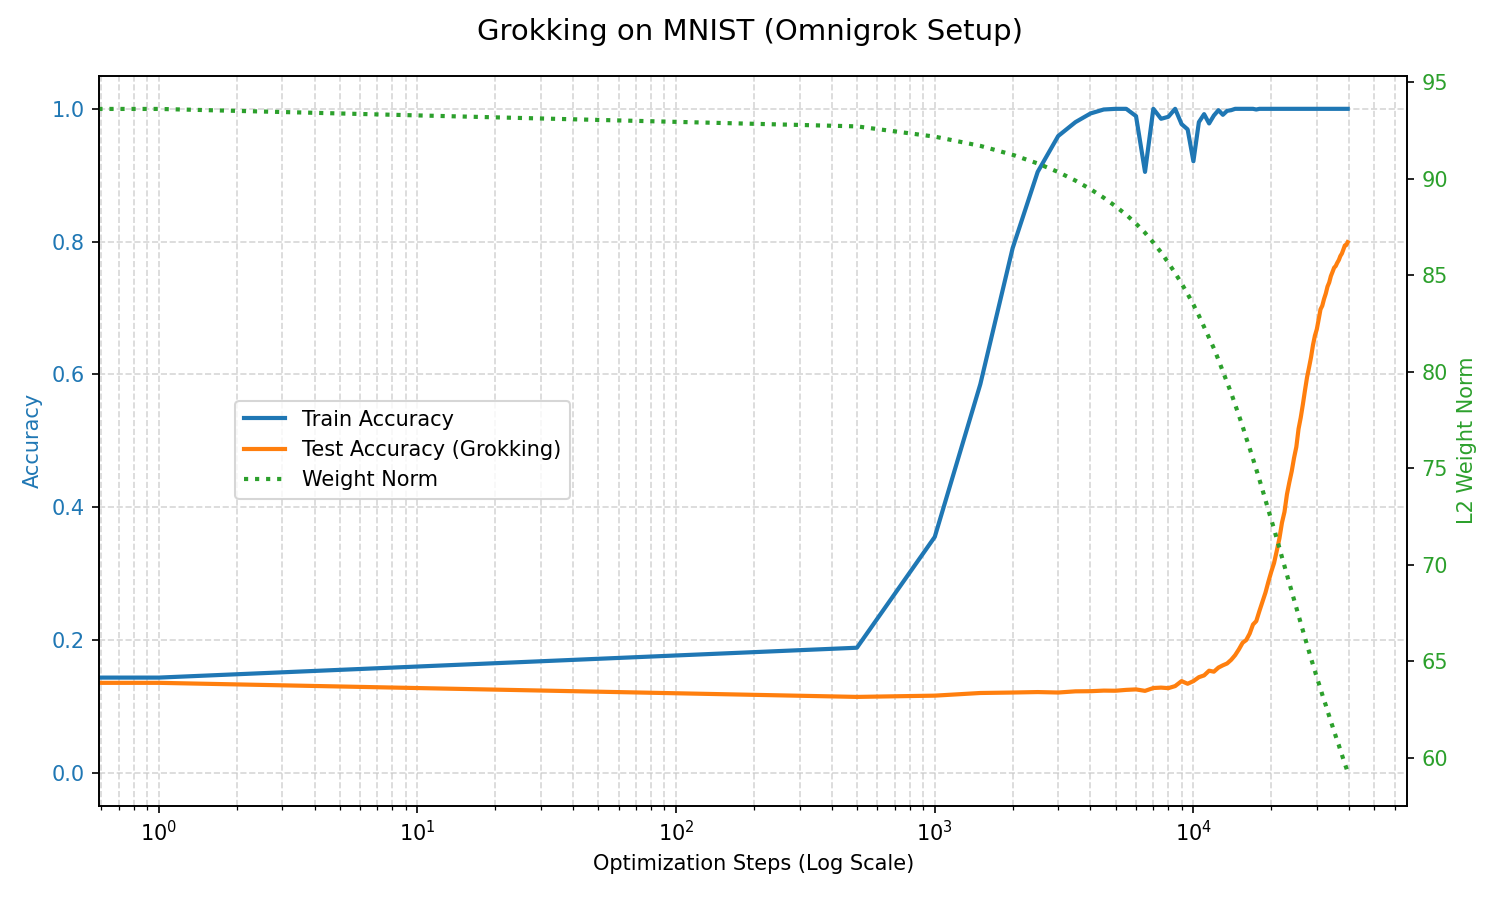
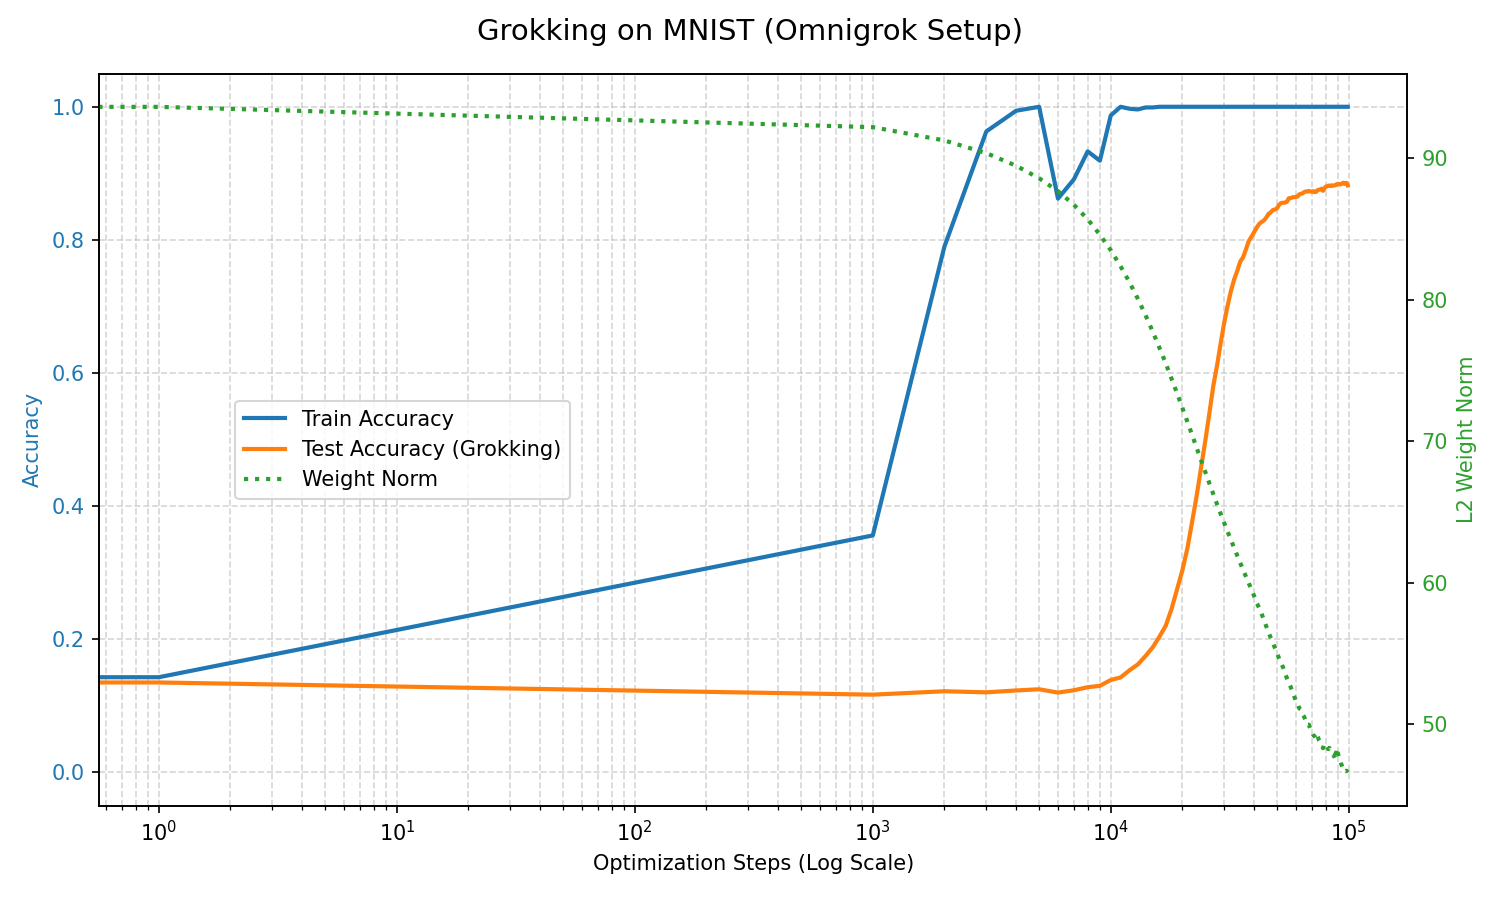
increased optimization steps to 100000

diff --git a/grokking.py b/grokking.py
@@ -14,8 +14,8 @@ BATCH_SIZE = 200
 LR = 1e-3
 WEIGHT_DECAY = 0.01       # Crucial driver for grokking
 INIT_SCALE = 8.0          # Large initialization delays generalization
-STEPS = 40000             # Total optimization steps
-LOG_INTERVAL = 500
+STEPS = 100000             # Total optimization steps
+LOG_INTERVAL = 1000
 
 torch.manual_seed(SEED)
 device = torch.device("cuda" if torch.cuda.is_available() else "cpu")
@@ -66,11 +66,13 @@ def evaluate(loader):
     model.eval()
     correct = 0
     total = 0
+
     for x, y in loader:
         x, y = x.to(device), y.to(device)
         preds = model(x).argmax(dim=1)
         correct += (preds == y).sum().item()
         total += y.size(0)
+
     return correct / total
 
 def get_weight_norm(model):
